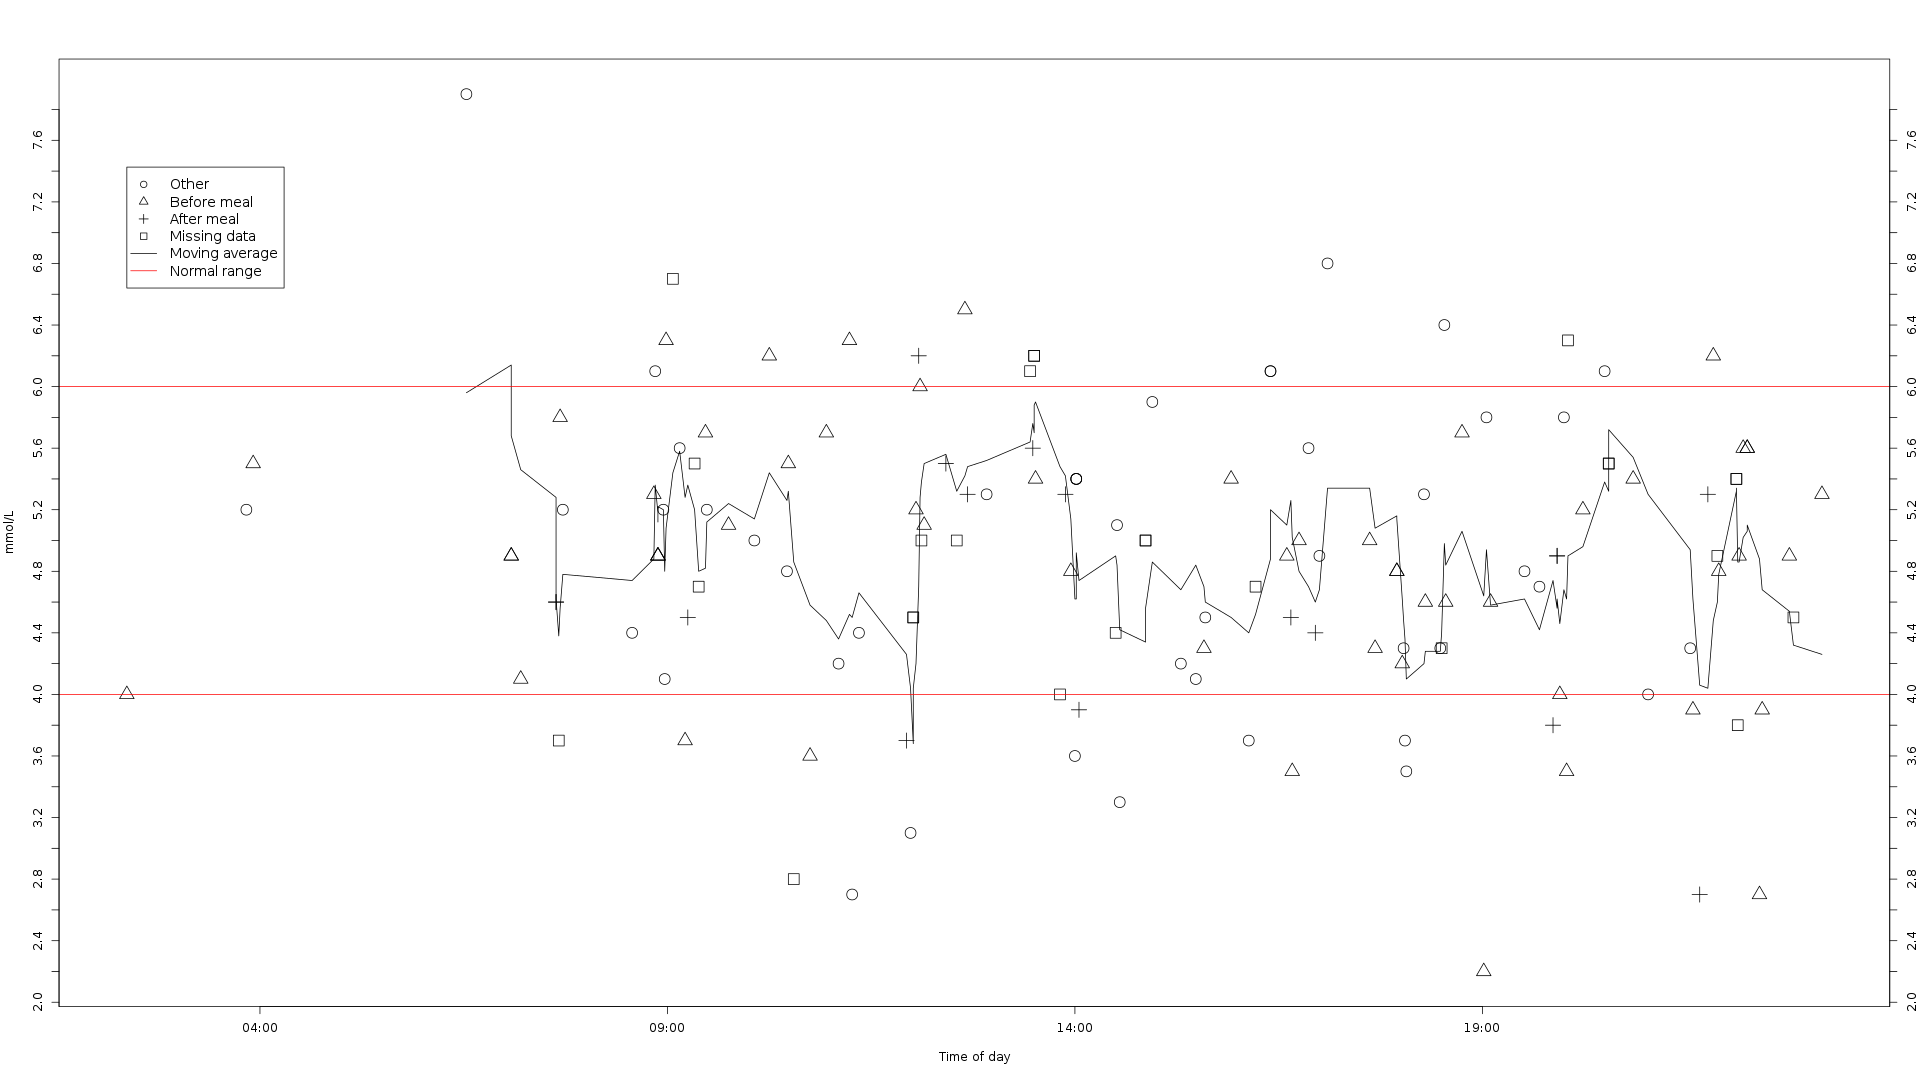
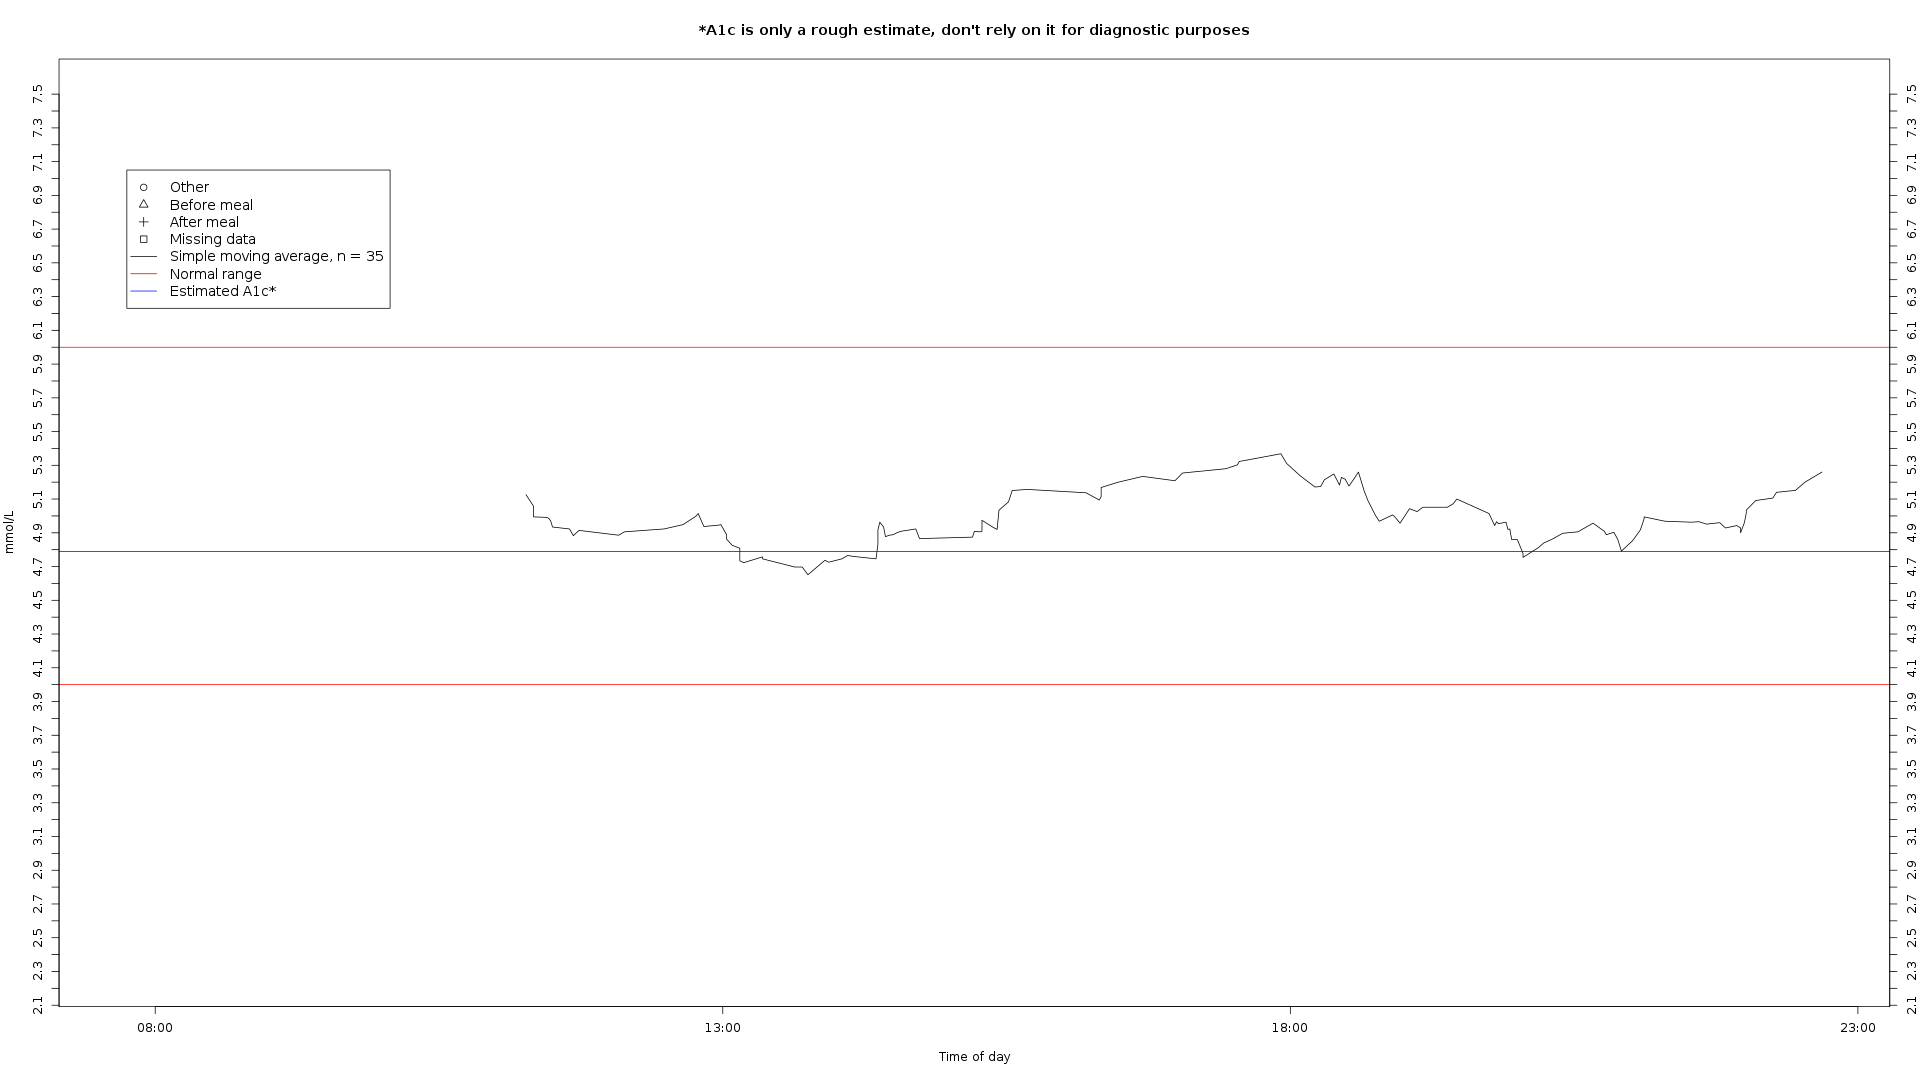
Added new graphs and stuff

diff --git a/README.md b/README.md
@@ -2,16 +2,32 @@
 For analysis of blood glucose data from an Accu-Chek Mobile.
 
 ## Features
+Keep in mind that not everything can be plotted if you have too few data points. The minimum to plot everything is 163 data points. The legend will still refer to the lines that may be missing if you have too few data points.  
 1. Colors alternate between days to allow for easy differentiation between one day and another.  
-2. If the user correctly marks each blood glucose measurement it will show in the graph, see the sample graph for an example. This makes it easier to spot potential patterns.
-3. 24h plot can reveal general trends from eating habits.
+2. If the user correctly marks each blood glucose measurement it will show in the graph, see the sample graph for an example. This makes it easier to spot potential patterns.  
+3. 24h plot can reveal general trends from eating habits.  
 4. Histogram can tell if the readings lean more to the upper or lower range.
 
 ![Example graph1](https://raw.githubusercontent.com/oskarvid/accu-chek-mobile/master/.sample-graph.png)
 
 ![Example graph2](https://raw.githubusercontent.com/oskarvid/accu-chek-mobile/master/.sample-24h-bg-graph.png)
 
-![Example graph3](https://raw.githubusercontent.com/oskarvid/accu-chek-mobile/master/.sample-histogram.png)
+![Example graph3](https://raw.githubusercontent.com/oskarvid/accu-chek-mobile/master/.sample-24h-bg-graph-2.png)
+
+![Example graph4](https://raw.githubusercontent.com/oskarvid/accu-chek-mobile/master/.sample-histogram.png)
+
+![Example graph5](https://raw.githubusercontent.com/oskarvid/accu-chek-mobile/master/.sample-all-first-values-per-day.png)
+
+![Example graph6](https://raw.githubusercontent.com/oskarvid/accu-chek-mobile/master/.sample-all-highest-values-per-day.png)
+
+![Example graph7](https://raw.githubusercontent.com/oskarvid/accu-chek-mobile/master/.sample-all-last-values-per-day.png)
+
+![Example graph8](https://raw.githubusercontent.com/oskarvid/accu-chek-mobile/master/.sample-all-lowest-values-per-day.png)
+
+![Example graph9](https://raw.githubusercontent.com/oskarvid/accu-chek-mobile/master/.sample-candle-chart.png)
+
+![Example graph10](https://raw.githubusercontent.com/oskarvid/accu-chek-mobile/master/.sample-day-plot.png)
+
 
 These example graphs were generated with normally distributed random data.
 
